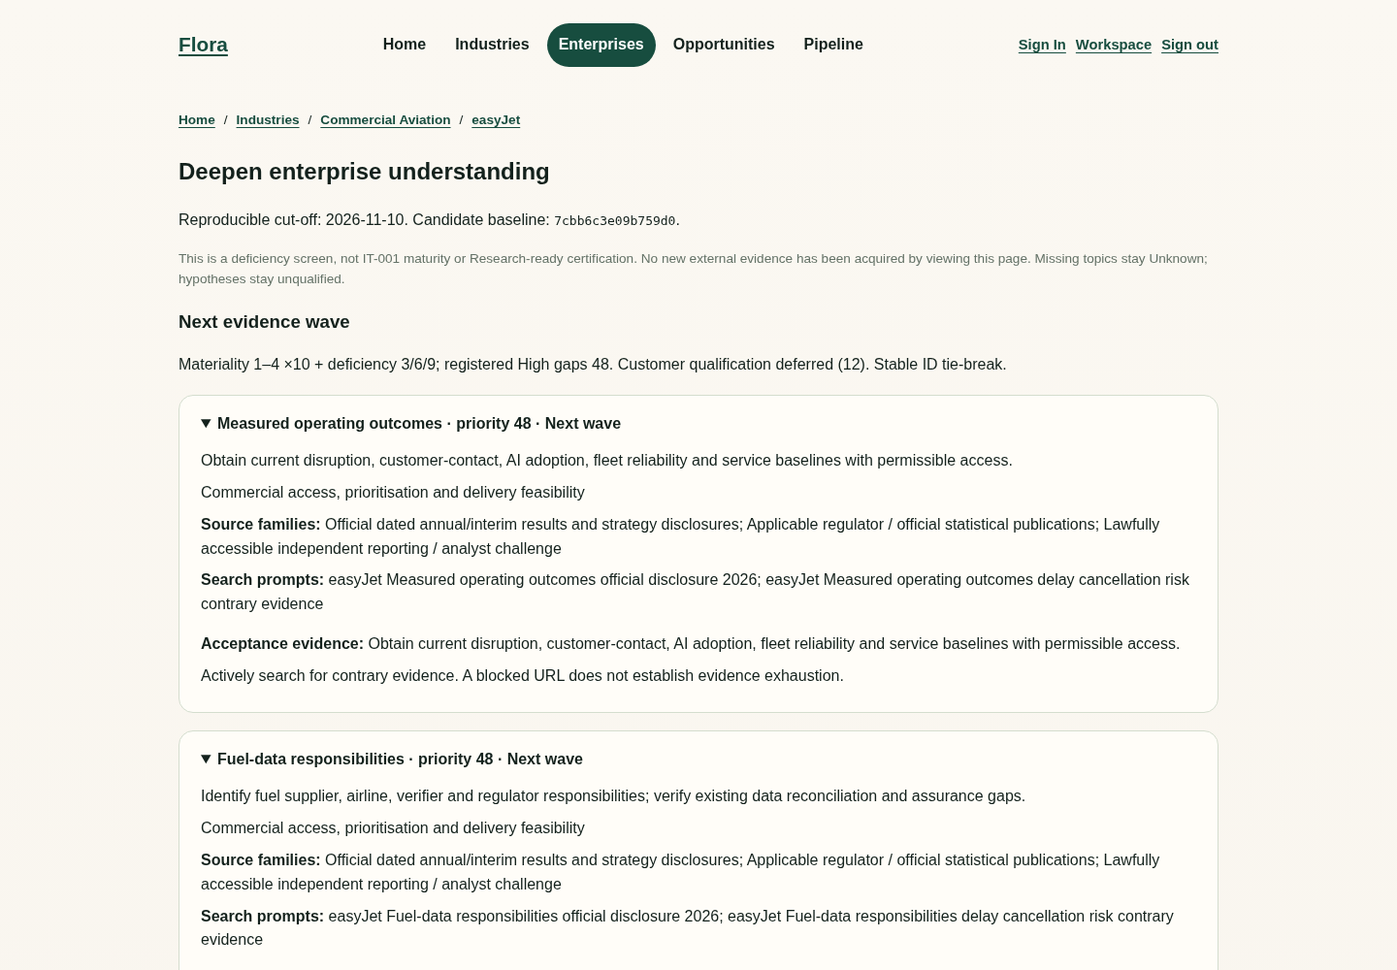
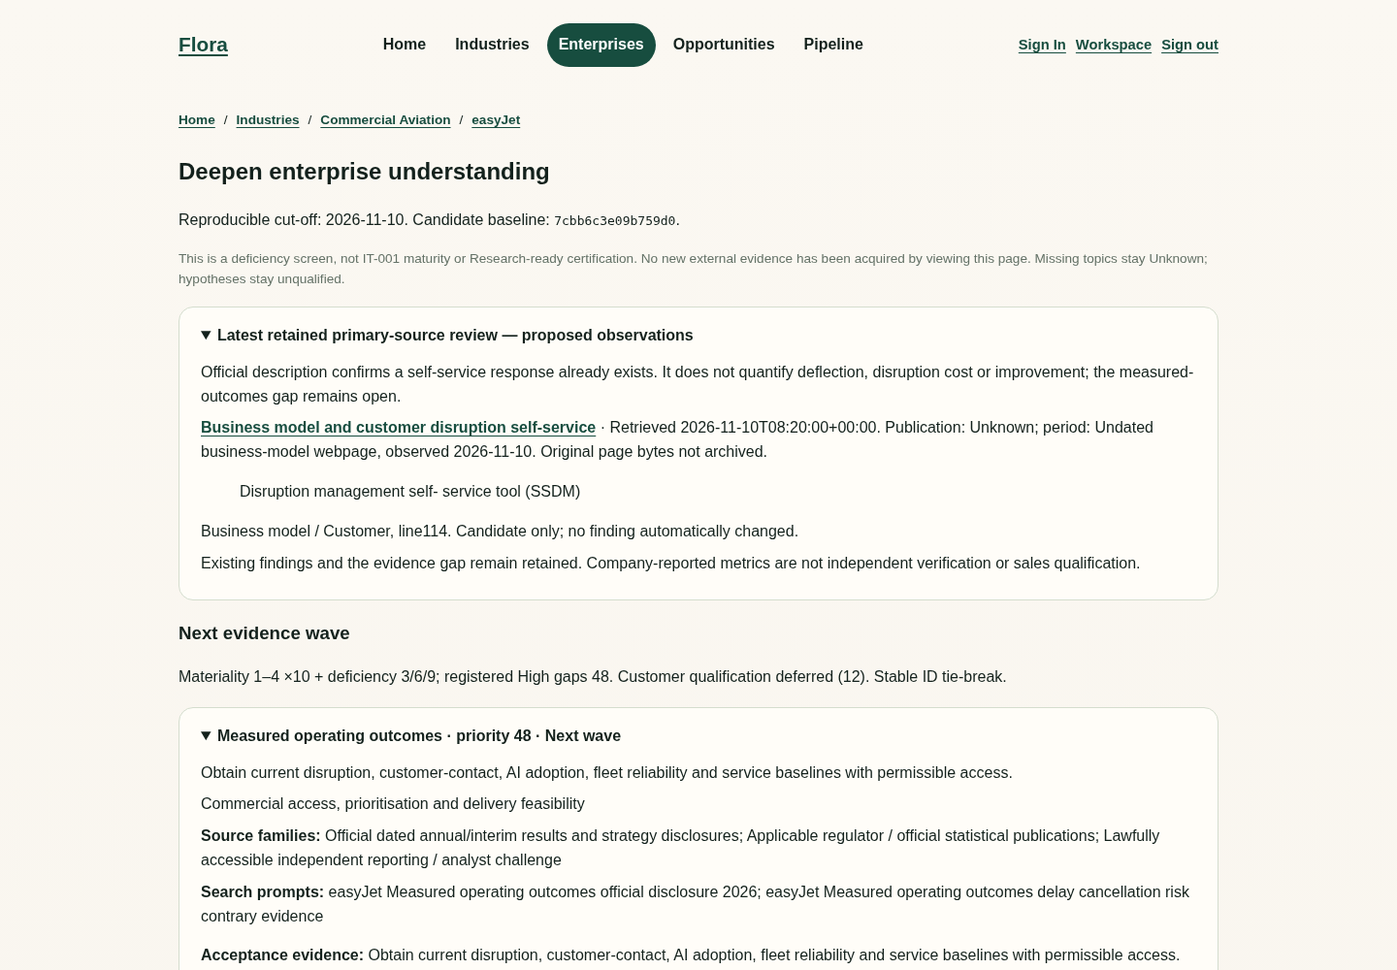
Validate research cycles with provenance-limited official source excerpts

Changed region(s): [[0.125, 0.31, 0.8438, 0.713], [0.125, 0.744, 0.8438, 0.992]]

diff --git a/cios/applications/flora/research_intelligence/cycle.py b/cios/applications/flora/research_intelligence/cycle.py
@@ -14,7 +14,7 @@ from ..enterprise_intelligence.semantic import CandidateClaim, SourceSegment
 from ..memory.models import stable_observation_fingerprint
 from .diagnostic import assess
 from .model import (validate, primary_claim_supported, claim_segment, candidate_claim,
-                    evidence_item)
+                    evidence_item, primary_text)
 from .source_import import import_proposal
 
 # §5.2 of the existing High-Fidelity contract. These selectors detect deficiencies;
@@ -201,6 +201,21 @@ def _checkpoint(previous, data, as_of):
     return deepcopy(previous['waves'])
 
 
+def acquire(submission, data):
+    """Reuse both existing provenance routes without inventing original-file bytes."""
+    if 'source' not in submission:
+        return import_proposal(submission['path'], submission['metadata'])
+    source = deepcopy(submission['source'])
+    if (source.get('research_domain') != data.get('research_domain', 'banking')
+            or source.get('verification') != 'primary_retrieved'
+            or source.get('content_kind') != 'reviewed_web_excerpt'):
+        raise ValueError('Expected same-domain reviewed web excerpt provenance')
+    text = primary_text(source)  # Existing confined path, checksum and provenance validation.
+    return {'metadata': {**source, 'reviewed_quotes': source['excerpts']},
+            'text': text, 'raw': None, 'primary_content_sha256': None,
+            'text_sha256': source['text_sha256']}
+
+
 def run_cycle(data, as_of, submissions=(), limit=3, previous=None):
     """Acquire supplied permitted source files, extract exact passages, propose review.
 
@@ -222,7 +237,7 @@ def run_cycle(data, as_of, submissions=(), limit=3, previous=None):
         if task_id not in selected or task_id in seen_tasks:
             raise ValueError('Evidence must address one selected task per submission')
         seen_tasks.add(task_id)
-        imported = import_proposal(submission['path'], submission['metadata'])
+        imported = acquire(submission, data)
         meta = imported['metadata']
         if date.fromisoformat(meta['retrieved_at'][:10]) > date.fromisoformat(as_of):
             raise ValueError('Acquisition follows research cut-off')
@@ -236,7 +251,7 @@ def run_cycle(data, as_of, submissions=(), limit=3, previous=None):
             raise ValueError('Existing-finding effects require explicit target lineage')
         if effect == 'invalidate' and meta['reporting_period'] != claims[target]['reporting_period']:
             raise ValueError('Incompatible periods cannot invalidate a historical finding')
-        fingerprint = digest({'raw': imported['primary_content_sha256'], 'task': task_id,
+        fingerprint = digest({'raw': imported['primary_content_sha256'], 'text': imported['text_sha256'], 'task': task_id,
                               'target': target, 'effect': effect, 'rationale': submission['rationale'], 'metadata': meta})
         if not 1 <= len(meta['reviewed_quotes']) <= 8:
             raise ValueError('Wave accepts at most eight reviewed passages per source')
@@ -245,10 +260,10 @@ def run_cycle(data, as_of, submissions=(), limit=3, previous=None):
             text = quote['quote']
             if not 20 <= len(text.strip()) <= 4000:
                 raise ValueError('Candidate passages need 20–4000 characters of context')
-            sid = 'RS-' + digest({'url': meta['url'], 'hash': imported['primary_content_sha256']})[:20]
+            sid = 'RS-' + digest({'url': meta['url'], 'hash': imported['primary_content_sha256'] or imported['text_sha256']})[:20]
             segment = SourceSegment(sid + '::' + digest(quote)[:16], sid,
                 quote['locator'], text, hashlib.sha256(text.encode()).hexdigest(),
-                meta['url'] + ' [' + quote['locator'] + ']', 'candidate_intelligence', 'reviewed_supplied_file')
+                meta['url'] + ' [' + quote['locator'] + ']', 'candidate_intelligence', meta.get('content_kind', 'reviewed_supplied_file'))
             obs = stable_observation_fingerprint(data['enterprise_twin_id'], 'research_excerpt', text,
                                                  tasks[task_id]['topic'], meta['reporting_period'])
             candidate = CandidateClaim('RC-' + obs.rsplit('-', 1)[-1][:20], 'research_excerpt', text,
@@ -261,8 +276,10 @@ def run_cycle(data, as_of, submissions=(), limit=3, previous=None):
                 'observation_fingerprint': obs, 'accepted_observation': False})
         proposals.append({'id': 'RP-' + fingerprint[:24], 'task_id': task_id,
             'target_claim_id': target, 'proposed_effect': effect, 'rationale': submission['rationale'],
-            'source_id': sid, 'source_metadata': meta, 'raw_sha256': imported['primary_content_sha256'],
-            'text_sha256': imported['text_sha256'], 'candidates': observations,
+            'source_id': sid, 'equivalent_existing_source_ids': sorted(s['id'] for s in data['sources'] if s['url'] == meta['url']),
+            'source_metadata': meta, 'raw_sha256': imported['primary_content_sha256'],
+            'text_sha256': imported['text_sha256'],
+            'original_bytes_archived': imported['raw'] is not None, 'candidates': observations,
             'supersession': {'predecessor_claim_id': target, 'state': 'Proposed; predecessor retained',
                 'target_reporting_period': claims[target]['reporting_period'] if target else None,
                 'new_reporting_period': meta['reporting_period'],
@@ -271,7 +288,7 @@ def run_cycle(data, as_of, submissions=(), limit=3, previous=None):
             'remaining_checks': ['Enterprise/scope/period entailment', 'Atomic observation and contrary evidence',
                 'Source authorship and independence', 'Governed Evidence acceptance before Observation persistence']})
     wave = {'as_of': as_of, 'selected_task_ids': selected, 'proposals': proposals,
-            'acquisition_status': 'Supplied file(s) reviewed' if proposals else 'Awaiting permitted source imports; no new evidence acquired',
+            'acquisition_status': 'Supplied file(s) or retained web excerpts reviewed' if proposals else 'Awaiting permitted source imports; no new evidence acquired',
             'retained_unknowns': deepcopy(data['gaps']),
             'retained_contradictions': [deepcopy(c) for c in data['claims'] if c['kind'] == 'contradiction'],
             'retained_claim_ids': sorted(claims),
@@ -290,3 +307,17 @@ def run_cycle(data, as_of, submissions=(), limit=3, previous=None):
         'remaining_tasks': [t for t in plan['tasks'] if t['id'] not in attempted | seen_tasks]}
     checkpoint['checkpoint_digest'] = digest(checkpoint)
     return checkpoint
+
+
+def reference_submission(data):
+    """Finite public acquisition example, distinct from changing the Twin overlay."""
+    from .registry import assessment_path
+    source = json.loads((assessment_path(data.get('research_domain', 'banking')).parent /
+                         'Research-Cycle-v2-Source.json').read_text())
+    banking = data['enterprise_twin_id'] == 'BK-ENT-001'
+    return {'task_id': 'G-AI-BENEFITS' if banking else 'AV-G-BASELINE', 'source': source,
+            'effect': 'new', 'target_claim_id': None,
+            'rationale': ('Adds a scoped company-reported Athena search-time metric from the existing announcement. '
+                          'These do not prove net Group-wide realised benefits, incremental external spend or customer demand.'
+                          if banking else 'Official description confirms a self-service response already exists. '
+                          'It does not quantify deflection, disruption cost or improvement; the measured-outcomes gap remains open.')}

diff --git a/cios/applications/flora/research_intelligence/cycle_views.py b/cios/applications/flora/research_intelligence/cycle_views.py
@@ -1,6 +1,6 @@
 """Read-only research-cycle presentation on the existing diagnostic page."""
 from html import escape
-from .cycle import research_plan, connected_context
+from .cycle import research_plan, connected_context, reference_submission, run_cycle
 
 
 def render(data, as_of):
@@ -23,15 +23,21 @@ def render(data, as_of):
     edges = ''.join(f"<details class='ux-claim'><summary>{esc(e['subject'])} → {esc(e['predicate'])} → {esc(e['object'])}</summary>"
         f"<p>{esc(e['qualification'])}. {esc(e.get('temporal_scope', 'Effective period not recorded'))}</p><ul>" + ''.join(
             f"<li><a href='{root}/evidence/{esc(cid)}'>{esc(cid)} — relationship evidence</a></li>" for cid in e['claim_ids']) + '</ul></details>' for e in context['edges'])
+    reference = reference_submission(data)
+    reviewed = run_cycle(data, as_of, [reference])['waves'][0]['proposals'][0]
+    recent = ("<details class='ux-claim'><summary>Latest retained primary-source review — proposed observations</summary>"
+        + f"<p>{esc(reviewed['rationale'])}</p><p><a href='{esc(reference['source']['url'])}' rel='noreferrer'>{esc(reference['source']['title'])}</a> · Retrieved {esc(reference['source']['retrieved_at'])}. Publication: {esc(reference['source'].get('publication_date') or 'Unknown')}; period: {esc(reference['source']['reporting_period'])}. Original page bytes not archived.</p>"
+        + ''.join(f"<blockquote>{esc(c['segment']['content'])}</blockquote><p>{esc(c['segment']['section_heading'])}. Candidate only; no finding automatically changed.</p>" for c in reviewed['candidates'])
+        + "<p>Existing findings and the evidence gap remain retained. Company-reported metrics are not independent verification or sales qualification.</p></details>")
     sources = ''.join(f"<li>{esc(s['source_id'])}: {esc(s['date_status'])}. {esc(s['extent'])}. {esc(s['limitation'])}</li>" for s in plan['coverage']['source_review'])
     return ("<section aria-label='Research Intelligence v2'><h2>Deepen enterprise understanding</h2>"
         f"<p>Reproducible cut-off: {esc(as_of)}. Candidate baseline: <code>{esc(plan['coverage']['baseline_digest'][:16])}</code>.</p>"
         "<p class='ux-disclosure'>This is a deficiency screen, not IT-001 maturity or Research-ready certification. No new external evidence has been acquired by viewing this page. Missing topics stay Unknown; hypotheses stay unqualified.</p>"
-        "<h3>Next evidence wave</h3>" + f"<p>{esc(plan['selection_rule'])}</p>" + tasks +
+        + recent + "<h3>Next evidence wave</h3>" + f"<p>{esc(plan['selection_rule'])}</p>" + tasks +
         "<h3>Dossier coverage — fourteen existing contract dimensions</h3>" + dossier +
         "<details><summary>Source freshness and retrieval limitations</summary><ul>" + sources + '</ul></details>' +
         "<details><summary>Connected enterprise understanding — inspect evidence</summary>" + edges +
         f"<p>Unmodelled relationship classes: {esc('; '.join(context['unmodelled_relationship_classes']))}. {esc(context['limitation'])}</p></details>"
         "<h3>Evidence → candidate observations → proposed finding changes</h3>"
-        "<p>The bounded offline cycle accepts reviewed HTML, PDF or text with provenance, checksums and located quotations. It preserves original findings, Unknowns and proposed supersession. Each strengthen, weaken or invalidate judgement requires an explicit target and rationale; none automatically changes an accepted fact.</p>"
+        "<p>The bounded offline cycle accepts reviewed HTML, PDF or text, or confined approved-tool excerpts, with provenance, checksums and located quotations. It preserves original findings, Unknowns and proposed supersession. Each strengthen, weaken or invalidate judgement requires an explicit target and rationale; none automatically changes an accepted fact.</p>"
         "<p>Research operators can export the source plan and canonical Researcher commission with <code>python tools/research/flora_cycle.py --enterprise lloyds --as-of YYYY-MM-DD --output NEW_LOCAL_DIRECTORY</code> (use easyjet for Aviation). Supplied files and resumed checkpoints remain local; this public page never reads private research packages.</p></section>")

diff --git a/tests/test_flora_research_cycle.py b/tests/test_flora_research_cycle.py
@@ -212,3 +212,41 @@ def test_html_output_escapes_research_content():
 def test_cutoff_validation_rejects_future_and_prebaseline_research():
     with pytest.raises(ValueError): cycle.coverage(load_assessment(), '2999-01-01')
     with pytest.raises(ValueError): cycle.coverage(load_assessment(), '2020-01-01')
+
+
+@pytest.mark.parametrize('domain', ['banking', 'aviation'])
+def test_real_reference_excerpt_produces_candidate_without_inventing_original_bytes(domain):
+    data = load_assessment(domain); item = cycle.reference_submission(data)
+    result = cycle.run_cycle(data, AS_OF, [item]); proposal = result['waves'][0]['proposals'][0]
+    assert proposal['raw_sha256'] is None and not proposal['original_bytes_archived']
+    assert proposal['source_metadata']['retrieval_method'] == 'approved_web_research_tool'
+    assert proposal['source_metadata']['retrieval_reference']
+    assert proposal['source_metadata']['primary_content_sha256'] is None
+    assert proposal['source_metadata']['text_sha256'] == proposal['text_sha256']
+    assert result['retained_history'] == data
+    assert result['waves'][0]['retained_unknowns'] == data['gaps']
+    assert 'Latest retained primary-source review' in render(data, AS_OF)
+    if domain == 'banking': assert 'SRC-LBG-AI' in proposal['equivalent_existing_source_ids']
+
+
+def test_excerpt_acquisition_rejects_cross_domain_changed_text_and_fake_original_hash():
+    data = load_assessment(); item = cycle.reference_submission(data)
+    for change in ({'research_domain': 'aviation'}, {'text_sha256': '0'*64},
+                   {'primary_content_sha256': '0'*64}, {'text_path': '/etc/passwd'},
+                   {'verification': 'citation_only'}):
+        broken = deepcopy(item); broken['source'].update(change)
+        with pytest.raises(ValueError): cycle.run_cycle(data, AS_OF, [broken])
+
+
+def test_cli_archives_excerpt_as_excerpt_without_fabricated_original_hash(tmp_path):
+    data = load_assessment(); item = cycle.reference_submission(data)
+    submitted = tmp_path / 'submitted.json'; submitted.write_text(json.dumps([item]))
+    output = tmp_path / 'web-excerpt-bundle'
+    proc = subprocess.run([sys.executable, 'tools/research/flora_cycle.py', '--enterprise', 'lloyds',
+        '--as-of', AS_OF, '--submissions', str(submitted), '--output', str(output)], cwd=REPO, capture_output=True, text=True)
+    assert proc.returncode == 0, proc.stderr
+    expected = item['source']['text_sha256']
+    assert [p.name for p in (output / 'sources').iterdir()] == [expected + '.excerpt.txt']
+    assert hashlib.sha256((output / 'sources' / (expected + '.excerpt.txt')).read_bytes()).hexdigest() == expected
+    proposal = json.loads((output / 'checkpoint.json').read_text())['waves'][0]['proposals'][0]
+    assert proposal['raw_sha256'] is None

diff --git a/tools/research/flora_cycle.py b/tools/research/flora_cycle.py
@@ -7,7 +7,7 @@ import sys
 
 ROOT = Path(__file__).resolve().parents[2]
 sys.path.insert(0, str(ROOT))
-from cios.applications.flora.research_intelligence.cycle import research_plan, run_cycle
+from cios.applications.flora.research_intelligence.cycle import research_plan, run_cycle, acquire
 from cios.applications.flora.research_intelligence.model import load_assessment
 from cios.applications.flora.research_intelligence.registry import enterprise_domain
 from cios.applications.flora.research_intelligence.mission_adapter import manifest, mission_owner
@@ -28,10 +28,9 @@ def main(argv=None):
     plan = research_plan(data, args.as_of, args.limit)
     if not isinstance(submissions, list) or len(submissions) > args.limit:
         raise ValueError('Submissions must be an array within the task budget')
-    from cios.applications.flora.research_intelligence.source_import import import_proposal
-    originals = [import_proposal(s['path'], s['metadata']) for s in submissions]
+    originals = [acquire(s, data) for s in submissions]
     checkpoint = run_cycle(data, args.as_of, submissions, args.limit, previous)
-    if [p['raw_sha256'] for p in checkpoint['waves'][-1]['proposals']] != [s['primary_content_sha256'] for s in originals]:
+    if [(p['raw_sha256'], p['text_sha256']) for p in checkpoint['waves'][-1]['proposals']] != [(s['primary_content_sha256'], s['text_sha256']) for s in originals]:
         raise ValueError('Source changed during acquisition')
     commission = manifest(data, args.as_of, args.limit)
     # Export resume-selected tasks instead of silently commissioning the first wave again.
@@ -52,7 +51,10 @@ def main(argv=None):
     if submissions:
         sources = args.output / 'sources'; sources.mkdir()
         for acquired in originals:
-            (sources / acquired['primary_content_sha256']).write_bytes(acquired['raw'])
+            if acquired['raw'] is not None:
+                (sources / acquired['primary_content_sha256']).write_bytes(acquired['raw'])
+            else:
+                (sources / (acquired['text_sha256'] + '.excerpt.txt')).write_text(acquired['text'])
     print(f"{args.enterprise}: {len(plan['tasks'])} tasks; {len(checkpoint['waves'][-1]['proposals'])} review proposals; CONTINUE. Local output: {args.output}")
     return 0
 

diff --git a/docs/flora-runtime/research-intelligence-v2/README.md b/docs/flora-runtime/research-intelligence-v2/README.md
@@ -40,7 +40,7 @@ Priority is a transparent research-effort rule, not truth confidence or deal lik
 
 The committed [Lloyds mission](lloyds-mission.json) / [commission](lloyds-commission.md) and [easyJet mission](easyjet-mission.json) / [commission](easyjet-commission.md) are reproducibly generated from the current existing evidence. They are draft research work orders, not issued authority or a new research architecture.
 
-**No new external source was acquired in this increment.** Current executor policy does not permit the primary-publisher domains. No restriction was bypassed and no old source was presented as a new retrieval. Existing reviewed excerpts remain unchanged. The importer supports permitted, reviewer-verified downloaded sources; it does not silently substitute historical material. Strengthen/weaken/invalidate behaviour is demonstrated with explicitly synthetic test files, not invented Lloyds/easyJet findings.
+**Acquisition update:** direct shell networking remains restricted, but the approved web-research tool successfully opened two official pages on 10 November 2026. The real reference cycle now retains a short located Lloyds Athena metric and easyJet SSDM reference as proposed observations. The Lloyds article was published 29 January 2026; easyJet’s page has no verified publication date. These are newly reviewed excerpts, not new publication claims or full original archives. Original page bytes are unavailable and their hashes remain null. Existing snapshots and overlays are unchanged. No network restriction was bypassed. Four proposed-effect behaviours remain explicitly synthetic tests, not invented customer findings.
 
 ## Repeatable local cycle
 
@@ -49,7 +49,7 @@ python tools/research/flora_cycle.py --enterprise lloyds --as-of 2026-11-10 --ou
 python tools/research/flora_cycle.py --enterprise easyjet --as-of 2026-11-10 --output /tmp/easyjet-wave-1
 ```
 
-Use a **new** local output directory each time. Output: `plan.json`, `checkpoint.json`, `mission.json` and generated `commission.md`. No runtime store, environment flag or production configuration is used. Limit is 1–10 tasks (default three), with at most eight located passages of 20–4000 characters per supplied source.
+Use a **new** local output directory each time. The page also exposes a retained public source review, its publication/retrieval distinction and proposed implications. Output: `plan.json`, `checkpoint.json`, `mission.json` and generated `commission.md`. No runtime store, environment flag or production configuration is used. Limit is 1–10 tasks (default three), with at most eight located passages of 20–4000 characters per supplied source.
 
 For acquisition, pass `--submissions /LOCAL/submissions.json`. Its JSON array has one entry per selected task:
 
@@ -59,7 +59,9 @@ For acquisition, pass `--submissions /LOCAL/submissions.json`. Its JSON array ha
 - `effect`: `strengthen`, `weaken`, `invalidate`, or `new`; `target_claim_id` must name an existing **same-enterprise** claim for the first three, and be null for new findings.
 - `rationale`: explicit reviewer reasoning; semantic entailment, atomicity, author authenticity and contrary evidence remain review requirements.
 
-Original supplied bytes are retained under the explicit **local** `sources/` output with content-addressed names. Metadata and located excerpts remain in the checkpoint. Do not commit private research bundles. File hashes establish consistency, not publisher authenticity. A supplied file must not claim a hash of original bytes that are unavailable. Index-only excerpts stay limited until original-source re-verification.
+Alternatively, an entry may supply `source`: the existing reviewed-web-excerpt descriptor (same registered industry, confined public snapshot path, text checksum, official retrieval URL/reference, dated provenance and located `excerpts`). The cycle reuses `model.primary_text`; it rejects cross-domain paths, changed text or a fabricated original-byte hash. The two committed `enterprise-knowledge/{banking,aviation}/research-model/Research-Cycle-v2-Source.json` receipts are working examples. These are candidate acquisition receipts, not additions to the canonical source registry.
+
+Original supplied bytes are retained under the explicit **local** `sources/` output with content-addressed names. Retained web excerpts are archived with an explicit `.excerpt.txt` suffix and null original-byte checksum. Metadata and located excerpts remain in the checkpoint. Same-document receipts retain matching existing source IDs rather than replacing them. Do not commit private research bundles. File hashes establish consistency, not publisher authenticity. A supplied file must not claim a hash of original bytes that are unavailable. Index-only excerpts stay limited until original-source re-verification.
 
 Resume with `--resume /LOCAL/prior/checkpoint.json --output /LOCAL/new-wave`. Previously acquired tasks remain explicitly pending review while the acquisition queue advances; no task or Unknown is automatically declared closed. Prior waves and full original overlay remain retained; altered checkpoint digests, another enterprise, changed baseline or backwards cut-off fail. On a changed baseline, explicitly review/rebase instead of overwriting history. Checkpoint hashes are integrity checks, not authentication. Preserve previous bundles so earlier acquired original files remain addressable.
 
@@ -67,10 +69,12 @@ A new passage produces stable candidate IDs, exact quote hashes/locations, targe
 
 ## Verification and next increment
 
-- Focused cycle tests: 21 identities, including both enterprises, four proposed effects, provenance/quote/cross-scope rejection, bound enforcement, checkpoints/resume, semantic reuse, canonical mission generation, CLI export and existing HTTP routes.
+- Focused cycle tests: 25 identities, including both enterprises, four proposed effects, provenance/quote/cross-scope rejection, bound enforcement, checkpoints/resume, semantic reuse, canonical mission generation, CLI export and existing HTTP routes.
 - An initial full-gate attempt correctly failed on a malformed new-suite selection (pytest received a filename character rather than the required selection list). The list configuration was corrected; no test assertion or inherited exception was relaxed.
 - The CI baseline adds only mandatory passing v2 identities; all pre-existing failure signatures and ten original skip identities/reasons remain unchanged. The runner and strict security comparator are unchanged.
-- Final local established gate: **PASS — 1,012 passed, 57 matched inherited failures, ten original skips; 1,079 unique identities.** All 388 security tests, 21 cycle tests and four diagnostic tests pass. Separately, all 25 CI-policy tests and actionlint pass. Actual draft-candidate hosted status is reported in the PR, not inferred from this local result.
+- Final local established gate: **PASS before the four additional excerpt tests — 1,012 passed, 57 matched inherited failures, ten original skips; 1,079 unique identities.** The final focused suite has 25 cycle tests and four diagnostic tests. The final-candidate full gate is rerun and reported in the PR; no earlier result is attributed to later code. Separately, all 25 CI-policy tests and actionlint pass. Actual draft-candidate hosted status is reported in the PR, not inferred from this local result.
+
+The real reference review adds detail but closes no material gap: Lloyds’ Athena measure is a product-specific company report, not proof of net Group-wide AI benefit; easyJet names an existing disruption self-service response but supplies no measured deflection or cost baseline. No customer budget, supplier award or buying intent follows.
 
 Next: obtain verified original documents for the three selected tasks per enterprise, run those imports, inspect opposing evidence and adjudicate the proposed observations through the existing governed Evidence workflow. Deepen programme→capability→supplier/contract→measured-outcome relationships only when supported. Assign a research operator and integrate these operational exports into an existing authorised Mission Workspace before claiming persistent autonomous RG-002 operation. No extra commercial candidates are needed to demonstrate progress.
 
